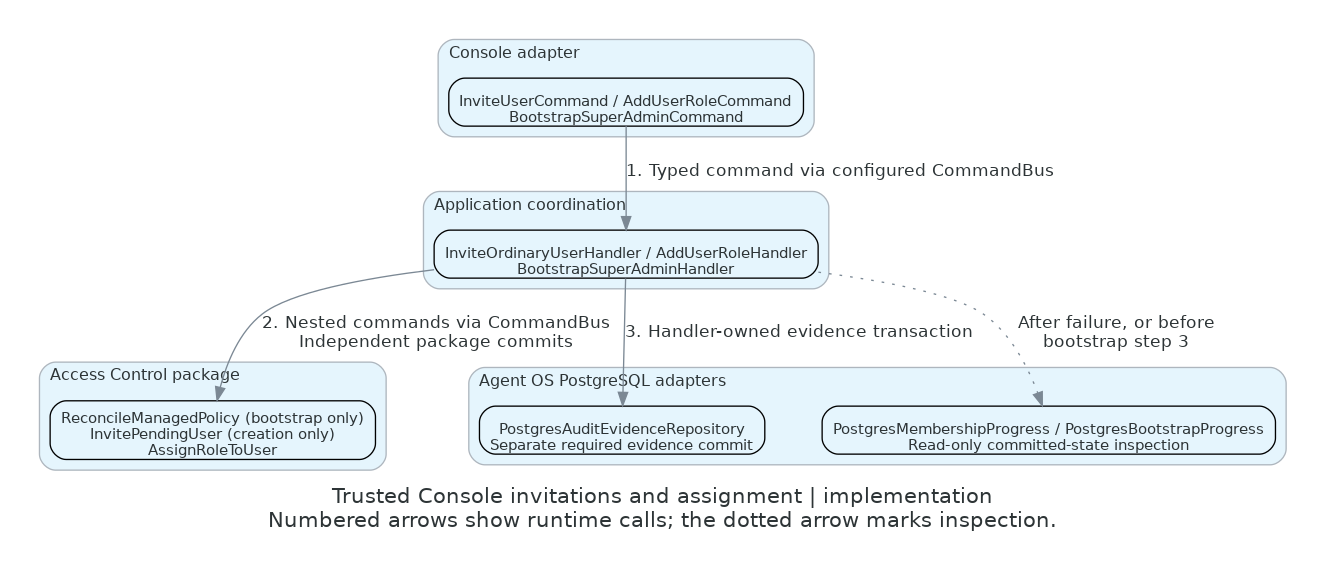
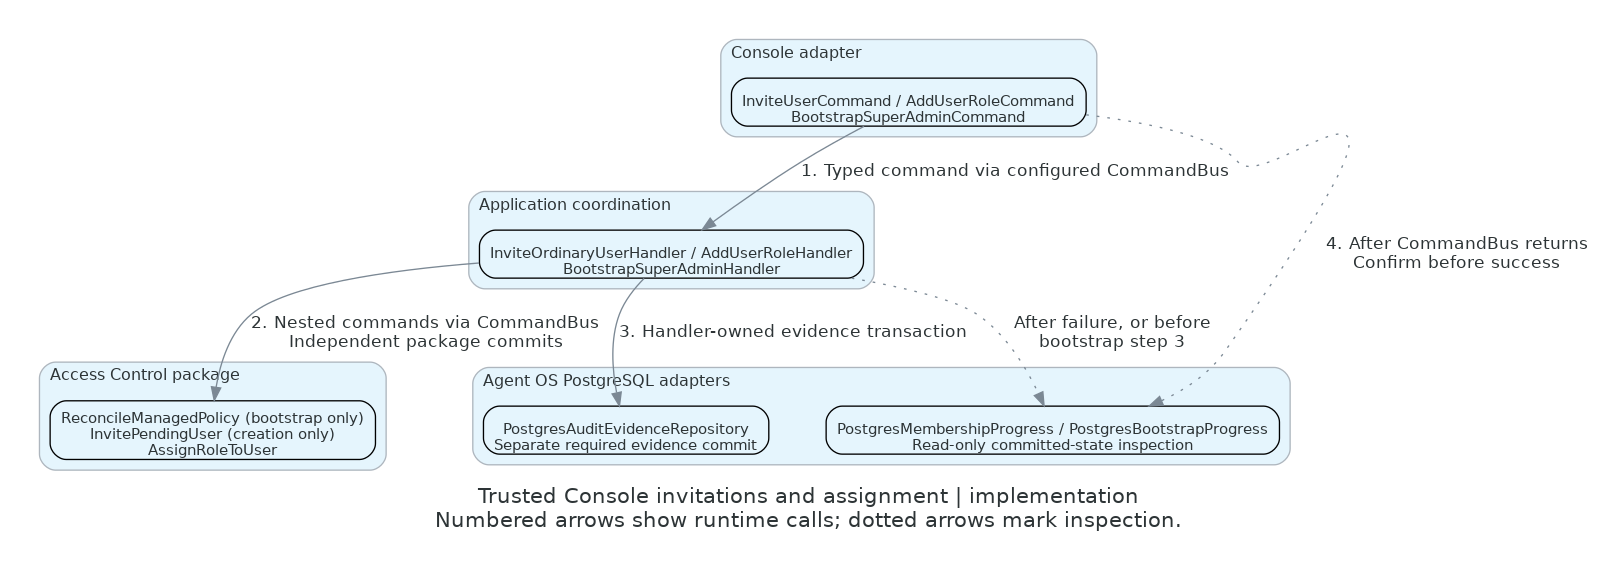
TASK-00576 Report unknown bootstrap admission when dispatch is skipped

diff --git a/tests/Integration/Postgres/BootstrapTest.php b/tests/Integration/Postgres/BootstrapTest.php
@@ -44,10 +44,12 @@ use Fight\AccessControl\Domain\AccessControl\User\UserId;
 use Fight\AccessControl\Domain\AccessControl\User\UserRepository;
 use Fight\Common\Application\Error\Exception\PermissionDenied;
 use Fight\Common\Application\Messaging\Command\CommandBus;
+use Fight\Common\Application\Messaging\Command\CommandFilter;
 use Fight\Common\Application\Messaging\Event\EventDispatcher;
 use Fight\Common\Application\Messaging\Query\QueryBus;
 use Fight\Common\Application\Repository\TransactionalUnitOfWork;
 use Fight\Common\Application\Service\Container;
+use Fight\Common\Domain\Messaging\Command\CommandMessage;
 use Fight\Common\Domain\Messaging\Event\AllEvents;
 use Fight\Common\Domain\Messaging\Event\EventMessage;
 use Fight\Common\Domain\Utility\ClassName;
@@ -57,6 +59,7 @@ use PHPUnit\Framework\TestCase;
 use RuntimeException;
 use Symfony\Component\Console\Input\ArgvInput;
 use Symfony\Component\Console\Output\BufferedOutput;
+use Symfony\Component\Console\Output\ConsoleOutput;
 use Tests\Support\AccessClock;
 
 /**
@@ -399,6 +402,50 @@ final class BootstrapTest extends TestCase
             self::assertNotSame('', $marker);
             self::assertStringNotContainsString($marker, $safe);
         }
+    }
+
+    /**
+     * Reports unknown admission when a configured filter skips the bootstrap handler
+     */
+    public function testOuterFilterVetoDoesNotConfirmAdmission(): void
+    {
+        self::assertTrue($this->bootstrap($this->command())->isComplete());
+        $tables = ['users', 'roles', 'permissions', 'user_role_assignments', 'activation_grants', 'audit_evidence'];
+        $counts = fn(): array => array_map(
+            fn(string $table): int => (int) $this->connection->fetchOne('SELECT count(*) FROM '.$table),
+            $tables
+        );
+        $before = $counts();
+        $events = $this->events;
+        $providerCalls = $this->providerCalls;
+        $filter = $this->createStub(CommandFilter::class);
+        $filter->method('process')->willReturnCallback(static function (CommandMessage $message, callable $next): void {
+            if (!$message->payload() instanceof BootstrapSuperAdmin) {
+                $next($message);
+            }
+        });
+        $this->container->get('messaging.command.bus')->addFilter($filter);
+        $stdout = new BufferedOutput();
+        $stderr = new BufferedOutput();
+        $output = $this->createStub(ConsoleOutput::class);
+        $output->method('write')->willReturnCallback($stdout->write(...));
+        $output->method('writeln')->willReturnCallback($stdout->writeln(...));
+        $output->method('getErrorOutput')->willReturn($stderr);
+        self::assertSame(1, $this->container->get(SafeConsoleApplication::class)->run(new ArgvInput([
+            'console', 'user:bootstrap-super-admin', '--internal', '--confirm-bootstrap',
+            '--operator='.UserId::generate(), '--email=skipped@example.test'
+        ]), $output));
+        self::assertSame('', $stdout->fetch());
+        $result = json_decode($stderr->fetch(), true, flags: JSON_THROW_ON_ERROR);
+        self::assertSame('partial_or_uncertain', $result['status']);
+        self::assertSame('unknown', $result['admission']);
+        self::assertSame('missing', $result['invitation']);
+        self::assertSame('missing', $result['assignment']);
+        self::assertSame('unconfirmed', $result['audit']);
+        self::assertArrayNotHasKey('user_id', $result);
+        self::assertSame($before, $counts());
+        self::assertSame($events, $this->events);
+        self::assertSame($providerCalls, $this->providerCalls);
     }
 
     /**

diff --git a/src/Application/Authorization/InstallationAssignmentPolicy.php b/src/Application/Authorization/InstallationAssignmentPolicy.php
@@ -52,14 +52,18 @@ final readonly class InstallationAssignmentPolicy
     {
         $this->requireInstallation();
         $user = $this->requireUser($userId);
+        /** @var RoleView $role */
         $role = $this->queryBus->fetch(new GetRoleById($roleId));
+        // @phpstan-ignore instanceof.alwaysTrue (A query filter can skip or replace the supplier result.)
         if (!$role instanceof RoleView) {
             throw new LogicException('The requested role is unavailable.');
         }
         InstallationManagedPolicy::requireAdditiveRole($roleId, $role);
         foreach ($role->getPermissionIds() as $permissionId) {
+            /** @var PermissionView $permission */
             $permission = $this->queryBus->fetch(new GetPermissionById($permissionId));
             if (
+                // @phpstan-ignore instanceof.alwaysTrue (A query filter can skip or replace the supplier result.)
                 !$permission instanceof PermissionView || !$permission->getPermissionId()->equals($permissionId)
                 || $permission->getTier() !== PermissionTier::ADMIN_SAFE
             ) {
@@ -75,7 +79,9 @@ final readonly class InstallationAssignmentPolicy
      */
     public function requireUser(UserId $userId): UserView
     {
+        /** @var UserView $user */
         $user = $this->queryBus->fetch(new GetUserById($userId));
+        // @phpstan-ignore instanceof.alwaysTrue (A query filter can skip or replace the supplier result.)
         if (!$user instanceof UserView || !$user->getUserId()->equals($userId)) {
             throw new LogicException('The target user is unavailable.');
         }

diff --git a/src/Adapter/Persistence/Bootstrap/PostgresBootstrapProgress.php b/src/Adapter/Persistence/Bootstrap/PostgresBootstrapProgress.php
@@ -46,10 +46,10 @@ final readonly class PostgresBootstrapProgress implements BootstrapProgress
             $command->userId->toString()
         ]);
         if ($user === false) {
-            return new BootstrapState('admitted', 'missing', 'missing');
+            return new BootstrapState('unknown', 'missing', 'missing');
         }
         if ($user['email'] !== $command->email->toString() || $user['state'] !== 'pending_activation') {
-            return new BootstrapState('admitted');
+            return new BootstrapState('unknown');
         }
         $roles = $this->inspection->fetchFirstColumn('SELECT role_id FROM user_role_assignments WHERE user_id = ?', [
             $command->userId->toString()
@@ -61,8 +61,9 @@ SQL,
             [$command->operator->auditActorId, $command->userId->toString(), 'user.bootstrap_completed']
         ) !== false;
 
+        // Target state alone cannot show that the handler passed its presence check.
         return new BootstrapState(
-            'admitted',
+            $completed ? 'admitted' : 'unknown',
             'confirmed',
             $roles === [InstallationManagedPolicy::SUPER_ADMIN_ROLE_ID] ? 'confirmed' : 'missing',
             $completed ? 'confirmed' : 'unconfirmed'

diff --git a/src/Application/Authorization/CommandHandler/BootstrapSuperAdminHandler.php b/src/Application/Authorization/CommandHandler/BootstrapSuperAdminHandler.php
@@ -83,7 +83,9 @@ final readonly class BootstrapSuperAdminHandler implements CommandHandler
             InstallationManagedPolicy::requireReconciled($this->queries->fetch(
                 new PreviewManagedPolicy($policy)
             ), $policy);
+            /** @var RoleView $role */
             $role = $this->queries->fetch(new GetRoleById($roleId));
+            // @phpstan-ignore instanceof.alwaysTrue (A query filter can skip or replace the supplier result.)
             if (!$role instanceof RoleView || !$role->getRoleId()->equals($roleId) || !$role->isManaged()) {
                 throw new LogicException('Managed bootstrap authority is unavailable.');
             }
@@ -103,7 +105,8 @@ final readonly class BootstrapSuperAdminHandler implements CommandHandler
             // An exception never proves rollback across independently committed package steps.
         }
         try {
-            $state = $this->progress->inspect($command);
+            $observed = $this->progress->inspect($command);
+            $state = new BootstrapState('admitted', $observed->invitation, $observed->assignment, $observed->audit);
         } catch (Throwable) {
             $state = new BootstrapState('admitted');
         }

diff --git a/docs/engineering/console-invitations/command-flow.py b/docs/engineering/console-invitations/command-flow.py
@@ -5,7 +5,7 @@ from diagrams import Cluster, Diagram, Edge, Node
 
 with Diagram(
     "Trusted Console invitations and assignment | implementation\n"
-    "Numbered arrows show runtime calls; the dotted arrow marks inspection.",
+    "Numbered arrows show runtime calls; dotted arrows mark inspection.",
     filename=str(Path(__file__).with_suffix("")),
     outformat="png", show=False, direction="TB",
     graph_attr={"fontname": "DejaVu Sans", "fontsize": "16", "pad": "0.3", "splines": "spline"},
@@ -26,3 +26,4 @@ with Diagram(
     use_case >> Edge(label="2. Nested commands via CommandBus\nIndependent package commits") >> package
     use_case >> Edge(label="3. Handler-owned evidence transaction") >> audit
     use_case >> Edge(label="After failure, or before\nbootstrap step 3", style="dotted") >> read
+    entry >> Edge(label="4. After CommandBus returns\nConfirm before success", style="dotted") >> read

diff --git a/docs/engineering/console-invitations/README.md b/docs/engineering/console-invitations/README.md
@@ -2,8 +2,8 @@
 
 ![Trusted Console command flow and separate commit boundaries](command-flow.png)
 
-[Editable diagram](command-flow.py). This implementation view describes the source in the commit that introduced this
-page. The Work handoff and PR record the full implementation revision. The diagram shows runtime calls, not static
+[Editable diagram](command-flow.py). This implementation view describes the source in the commit that last updated this
+diagram. The Work handoff and PR record the full implementation revision. The diagram shows runtime calls, not static
 dependencies or guaranteed effects. Package and application bus filters, policy reads, event delivery, and response
 formatting are omitted.
 
@@ -12,7 +12,8 @@ formatting are omitted.
 | 1. Parse and dispatch | [`InviteUserCommand`](../../../src/Adapter/Console/InviteUserCommand.php), [`AddUserRoleCommand`](../../../src/Adapter/Console/AddUserRoleCommand.php) and [`BootstrapSuperAdminCommand`](../../../src/Adapter/Console/BootstrapSuperAdminCommand.php) parse trusted local intent and dispatch their typed commands. The [invitation](../../../config/application/console_invitation.php) and [bootstrap](../../../config/application/bootstrap_super_admin.php) composition files register the handlers. |
 | 2. Dispatch package work | `handle()` in [`InviteOrdinaryUserHandler`](../../../src/Application/Authorization/CommandHandler/InviteOrdinaryUserHandler.php), [`AddUserRoleHandler`](../../../src/Application/Authorization/CommandHandler/AddUserRoleHandler.php) and [`BootstrapSuperAdminHandler`](../../../src/Application/Authorization/CommandHandler/BootstrapSuperAdminHandler.php) calls the configured command bus. No outer transaction encloses the package operations. |
 | 3. Record evidence | The same handlers call `commitTransactional()` around evidence `add()` through the [`PostgresAuditEvidenceRepository`](../../../src/Adapter/Persistence/Repository/PostgresAuditEvidenceRepository.php). That commit cannot roll back an earlier package commit. |
-| Inspect committed state | [`PostgresMembershipProgress`](../../../src/Adapter/Persistence/Authorization/PostgresMembershipProgress.php) and [`PostgresBootstrapProgress`](../../../src/Adapter/Persistence/Bootstrap/PostgresBootstrapProgress.php) use read-only inspection separate from the writer. Bootstrap also inspects the committed invitation and assignment before writing its completion evidence. |
+| 4. Confirm before success | Each Console entry calls its progress reader after the top-level command bus returns. A void return alone does not prove that the handler ran. The entries report success only after the read confirms the required facts. |
+| Handler inspection | [`PostgresMembershipProgress`](../../../src/Adapter/Persistence/Authorization/PostgresMembershipProgress.php) and [`PostgresBootstrapProgress`](../../../src/Adapter/Persistence/Bootstrap/PostgresBootstrapProgress.php) use read-only inspection separate from the writer. Bootstrap also inspects the committed invitation and assignment before writing its completion evidence. |
 
 See [Console invitation and correction](../CONSOLE_INVITATIONS.md) and [the bootstrap runbook](../SUPER_ADMIN_BOOTSTRAP.md)
 for operator-facing behavior and recovery limits. This source trace does not prove runtime behavior or acceptance.

diff --git a/planning/tasks/00576-TASK.md b/planning/tasks/00576-TASK.md
@@ -148,7 +148,9 @@ publication, upstream mutation, merge, release or deployment follows from this r
 
 ## Work checkpoint — verified locally
 
-Console supplies typed intent and creation IDs for all three registered commands. The handlers dispatch package
+Console supplies typed intent for all three registered commands. Ordinary invitation and bootstrap generate
+creation User IDs; `user:role:add` selects an existing User ID and generates an evidence invocation ID.
+The handlers dispatch package
 commands through the configured bus and commit required operator evidence separately. Bootstrap, ordinary
 invitation and role addition inspect committed state on a separate read-only connection. A fresh audit invocation
 ID distinguishes a failed repeat from an older confirmation. HTTP invitation issuance uses the same
@@ -169,3 +171,17 @@ Rendered and inspected the command flow with the project's pinned renderer (Pyth
 Graphviz 2.43.0). The gate retained eight Pi skips, Node and Sass deprecations, a frontend test `act` warning
 and bundle-size warnings. No schema, lock or permission change. Independent Review and QA remain pending.
 Local evidence: `.runs/tasks/TASK-00576/runs/build-work-handoff.md`.
+
+## Review repair — verified locally
+
+Bootstrap now reports unknown admission when a configured filter skips the handler and no completion evidence
+exists. The handler still reports explicit refusal when it finds an existing Super Admin. The PostgreSQL regression
+first failed on the false `admitted` value, then passed with no success output or added rows, events or delivery calls.
+The updated command flow shows the read each Console entry uses to confirm success. Supplier View annotations retain
+runtime guards for unexpected bus results.
+
+The focused suite passed 270 tests (5,895 assertions). Normal `./bin/build` passed with fresh planning and application
+checks, with no application reuse: receipt `20261120T173350Z-25727`, 2,410 backend tests (143,121 assertions), 1,299
+frontend tests, 227 browser catalog tests and all five critical browser smoke scenarios. Combined Domain/Application
+coverage was 960/960 lines (929 hit by Unit tests). Eight Pi skips, Node and Sass deprecations, a frontend test
+`act` warning and bundle-size warnings remain. Independent Review of the repair and applicable QA are pending.

diff --git a/docs/engineering/SUPER_ADMIN_BOOTSTRAP.md b/docs/engineering/SUPER_ADMIN_BOOTSTRAP.md
@@ -79,8 +79,10 @@ bootstrap-specific locking does not remove package-owned consistency protections
 
 Success stdout is one JSON line with `status: bootstrap_complete`, `admission`, `invitation`, `assignment`, `audit`
 and `user_id`. Failure stdout is empty; stderr reports bounded step facts with `status: partial_or_uncertain` and
-inspection/retry guidance. `admission` is `admitted`, `refused` or `unknown`; it is a presence-check result, not a
-stored claim or an authentication credential. A target ID is shown only when this invocation's intended pending
+inspection/retry guidance. `admission` is `admitted`, `refused` or `unknown`. The handler can report its presence-check
+result directly; after a void dispatch, only this invocation's completion evidence proves it passed the check.
+An absent target alone cannot distinguish a skipped handler from an admitted invocation. Admission is not a stored
+claim or an authentication credential. A target ID is shown only when this invocation's intended pending
 invitation is confirmed. Invitation/assignment facts are `confirmed`, `missing` or `unknown`; audit is `confirmed`
 or `unconfirmed`. Quiet/silent behavior follows Symfony Console.
 
